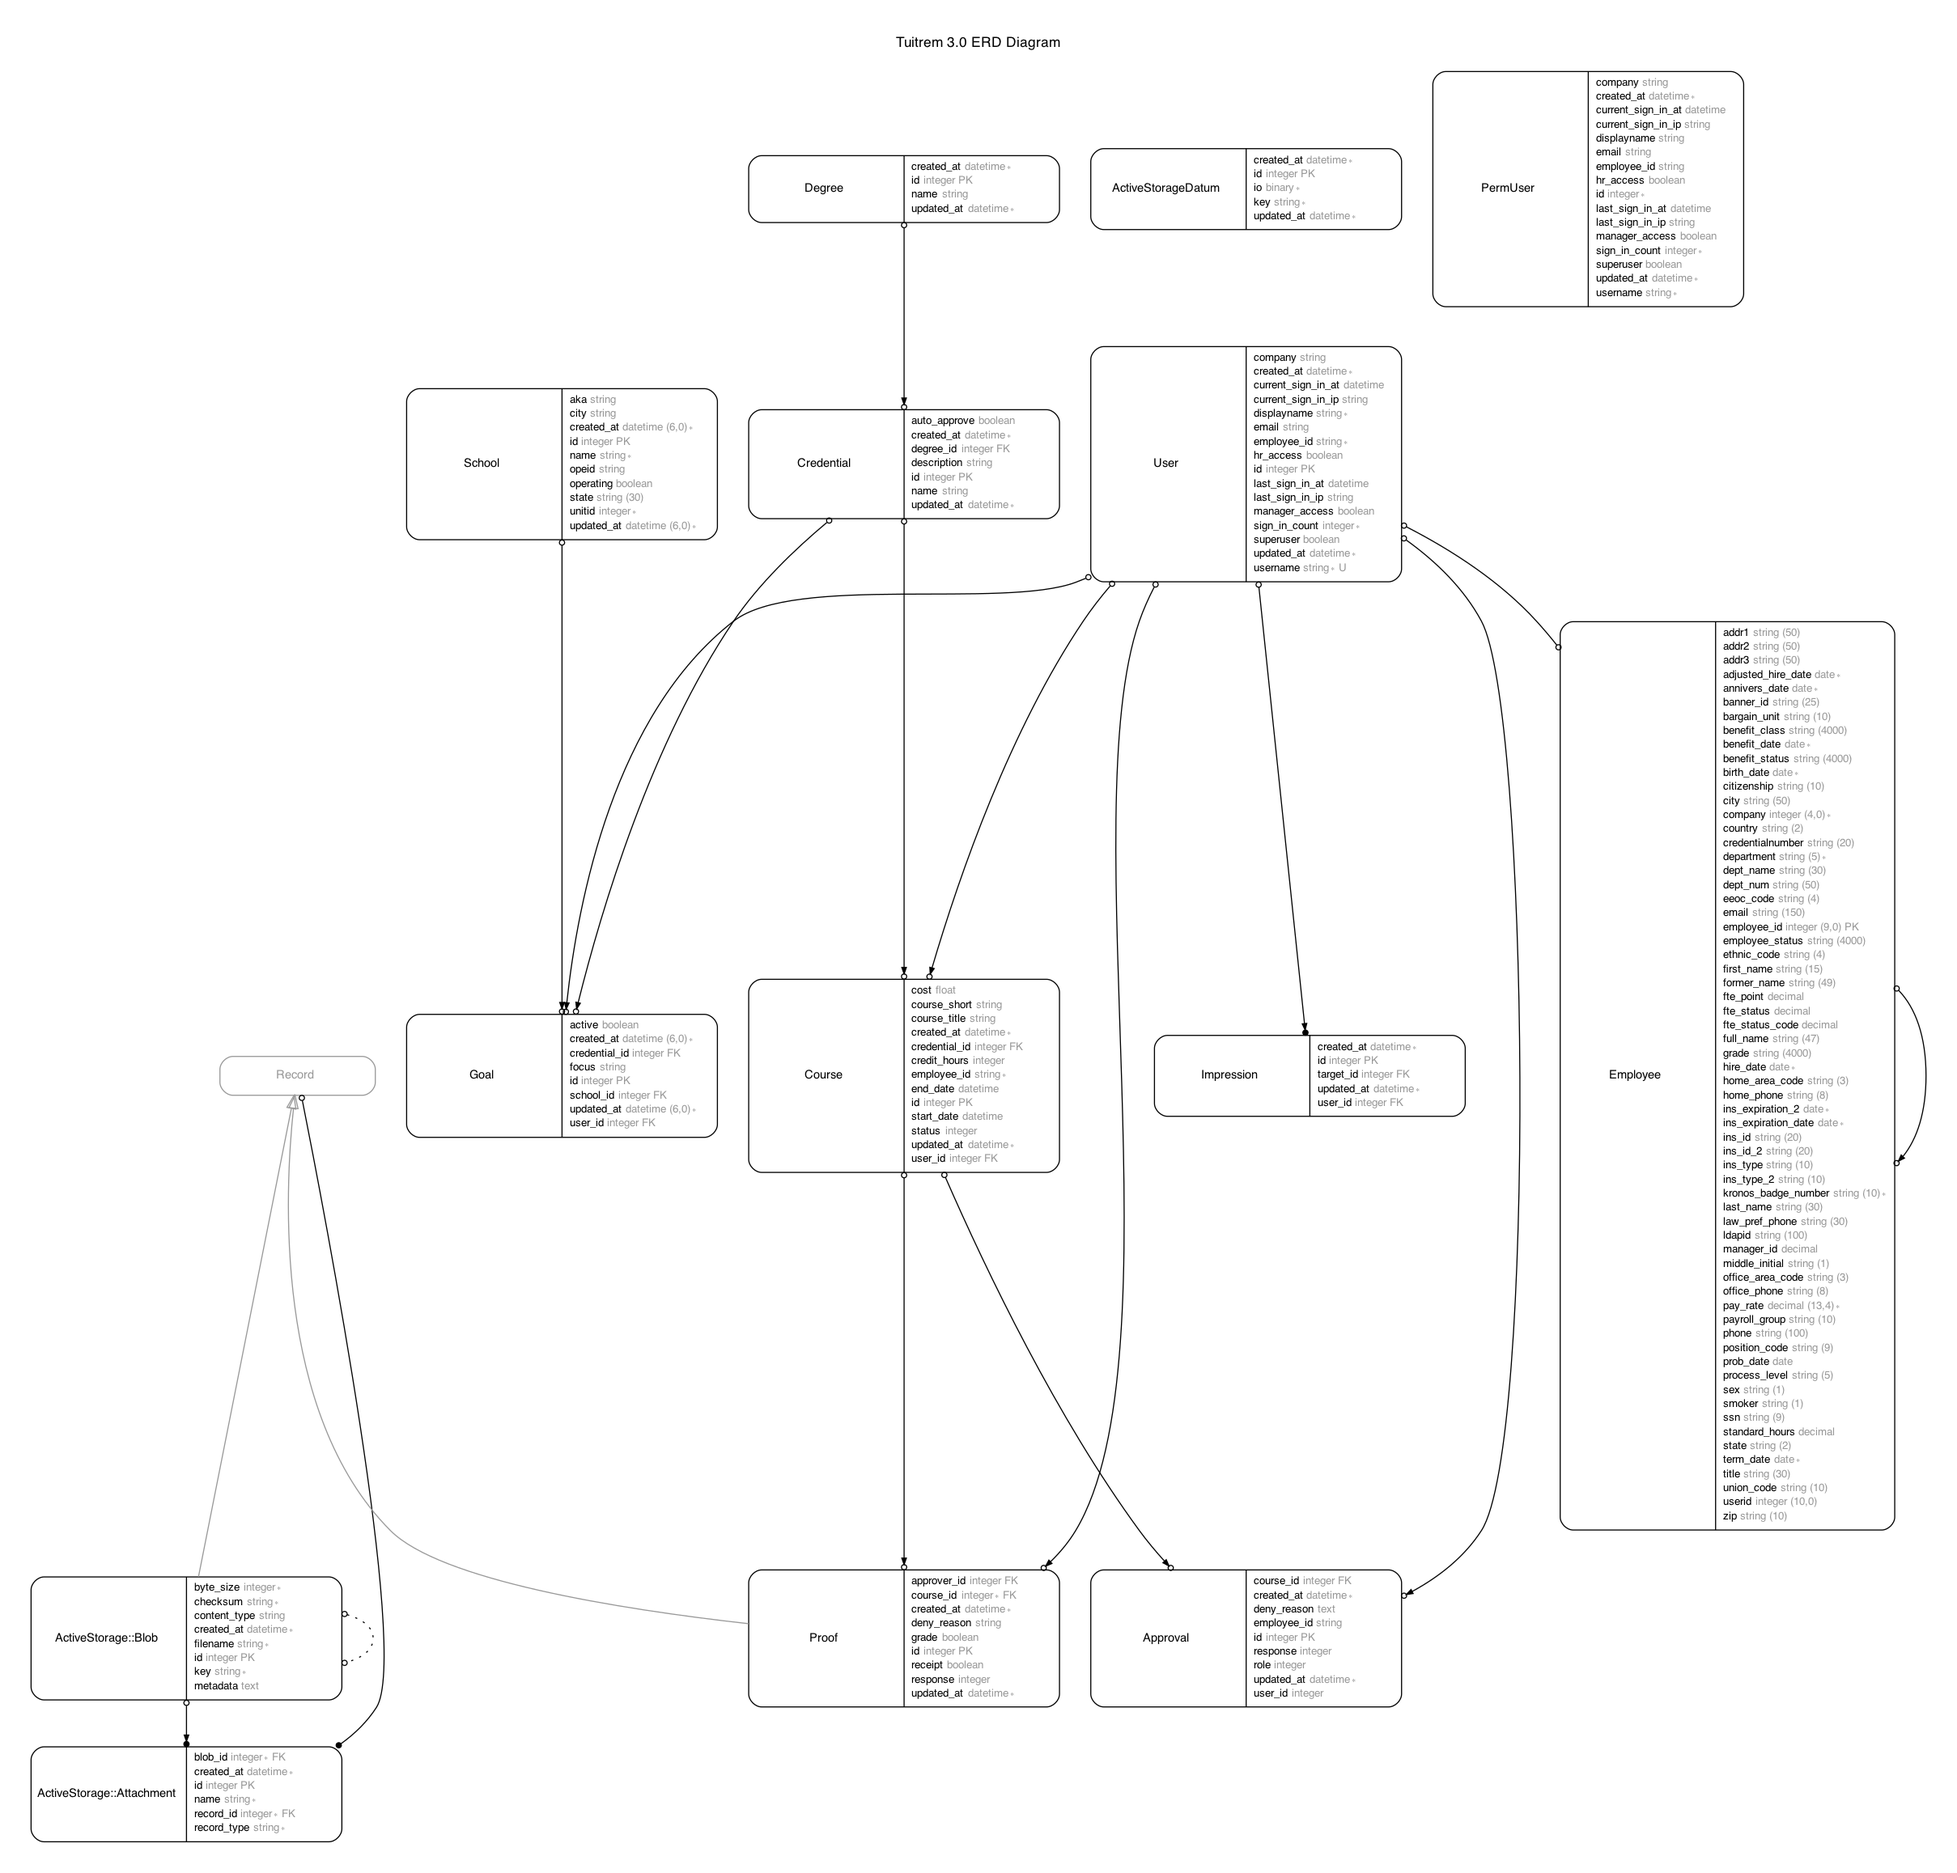
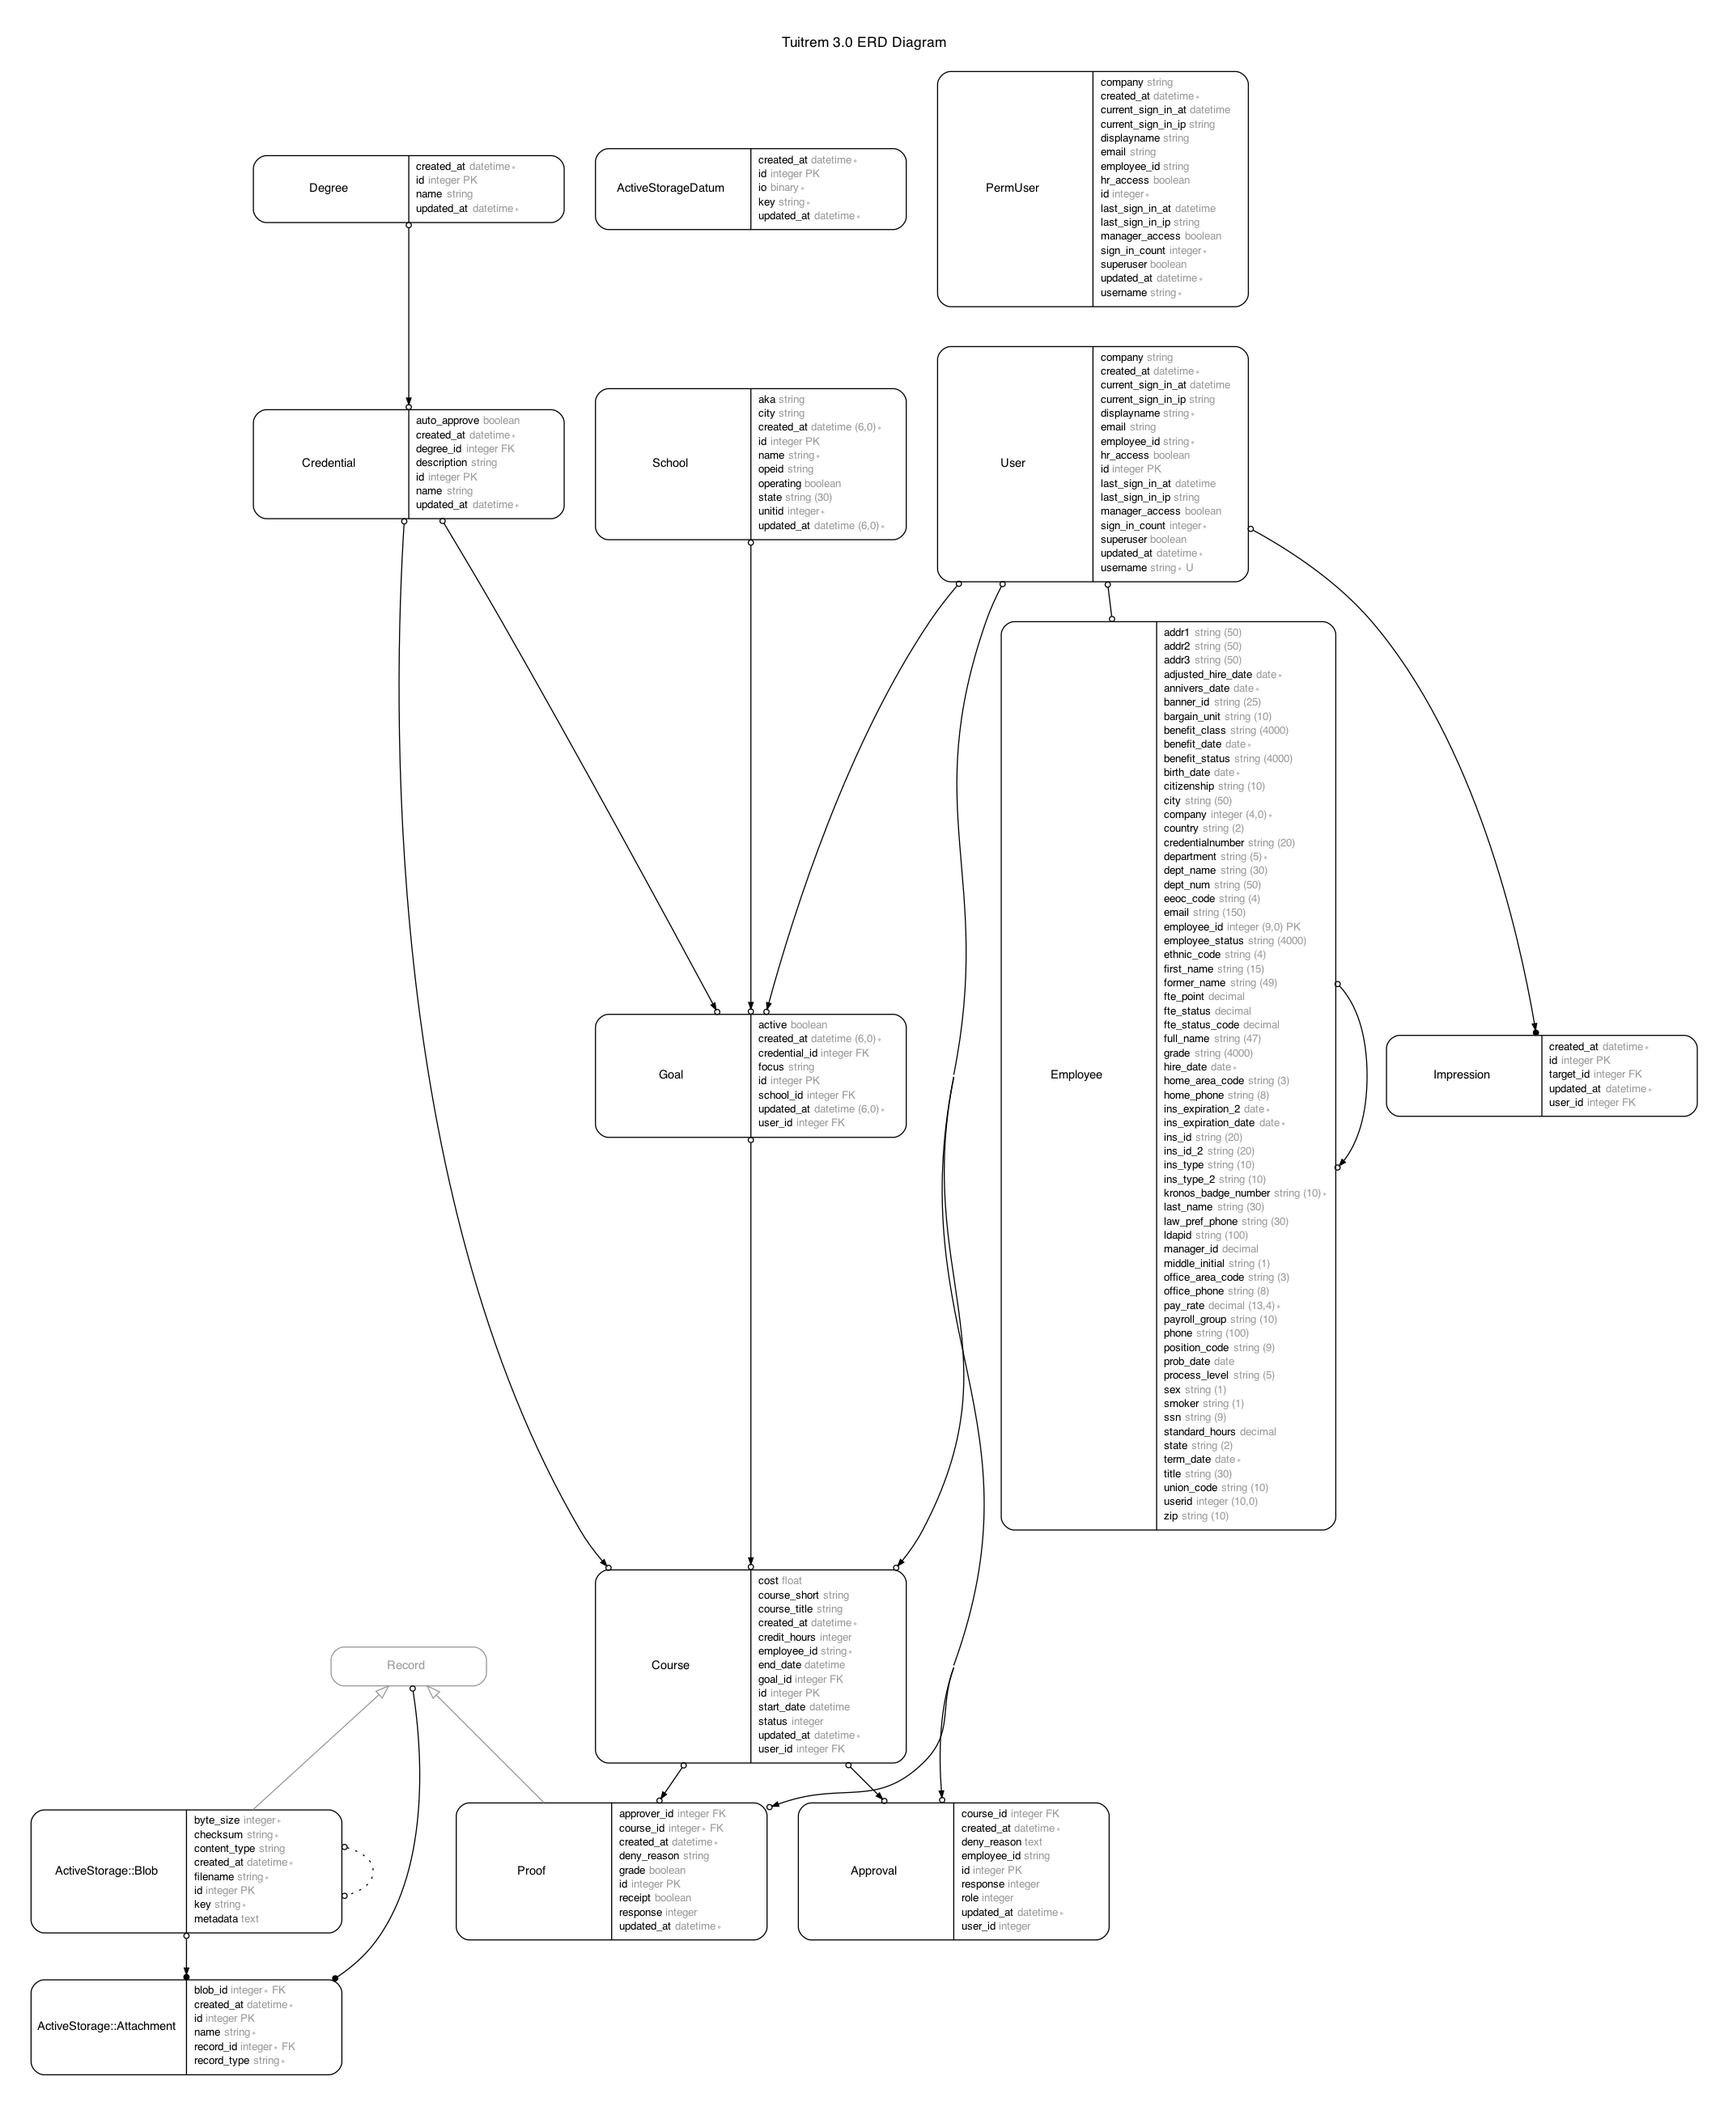
Implements #47 Educational goal, replacing credentials and schools on the course itself

diff --git a/app/controllers/courses_controller.rb b/app/controllers/courses_controller.rb
@@ -18,10 +18,12 @@ class CoursesController < ApplicationController
   # GET /courses/new
   def new
     @course = Course.new(user_id: current_user.id, employee_id: current_user.employee_id, status: 'draft')
+    @goal = Goal.where(user_id: current_user.id)
   end
 
   # GET /courses/1/edit
   def edit
+    @goal = Goal.where(user_id: current_user.id)
   end
 
   # POST /courses
@@ -69,11 +71,11 @@ class CoursesController < ApplicationController
 
   # Use callbacks to share common setup or constraints between actions.
   def set_course
-    @course = Course.includes(:user, :credential, :approvals, :proofs).references(:credential, :approvals, :user, :proofs).find(params[:id])
+    @course = Course.includes(:user, :goal, :approvals, :proofs).references(:goal, :approvals, :user, :proofs).find(params[:id])
   end
 
   # Only allow a trusted parameter "white list" through.
   def course_params
-    params.require(:course).permit(:user_id, :employee_id, :credential_id, :start_date, :end_date, :course_title, :course_short, :credit_hours, :cost, :status)
+    params.require(:course).permit(:user_id, :employee_id, :goal_id, :start_date, :end_date, :course_title, :course_short, :credit_hours, :cost, :status)
   end
 end

diff --git a/app/models/course.rb b/app/models/course.rb
@@ -4,24 +4,28 @@
 #
 # Table name: courses
 #
-#  id            :integer          not null, primary key
-#  cost          :float
-#  course_short  :string
-#  course_title  :string
-#  credit_hours  :integer
-#  end_date      :datetime
-#  start_date    :datetime
-#  status        :integer
-#  created_at    :datetime         not null
-#  updated_at    :datetime         not null
-#  credential_id :integer
-#  employee_id   :string
-#  user_id       :integer
+#  id           :integer          not null, primary key
+#  cost         :float
+#  course_short :string
+#  course_title :string
+#  credit_hours :integer
+#  end_date     :datetime
+#  start_date   :datetime
+#  status       :integer
+#  created_at   :datetime         not null
+#  updated_at   :datetime         not null
+#  employee_id  :string
+#  goal_id      :integer
+#  user_id      :integer
 #
 # Indexes
 #
-#  index_courses_on_credential_id  (credential_id)
-#  index_courses_on_user_id        (user_id)
+#  index_courses_on_goal_id  (goal_id)
+#  index_courses_on_user_id  (user_id)
+#
+# Foreign Keys
+#
+#  goal_id  (goal_id => goals.id)
 #
 class Course < ApplicationRecord
   # == Relationships ==================================

diff --git a/spec/factories/courses.rb b/spec/factories/courses.rb
@@ -2,24 +2,28 @@
 #
 # Table name: courses
 #
-#  id            :integer          not null, primary key
-#  cost          :float
-#  course_short  :string
-#  course_title  :string
-#  credit_hours  :integer
-#  end_date      :datetime
-#  start_date    :datetime
-#  status        :integer
-#  created_at    :datetime         not null
-#  updated_at    :datetime         not null
-#  credential_id :integer
-#  employee_id   :string
-#  user_id       :integer
+#  id           :integer          not null, primary key
+#  cost         :float
+#  course_short :string
+#  course_title :string
+#  credit_hours :integer
+#  end_date     :datetime
+#  start_date   :datetime
+#  status       :integer
+#  created_at   :datetime         not null
+#  updated_at   :datetime         not null
+#  employee_id  :string
+#  goal_id      :integer
+#  user_id      :integer
 #
 # Indexes
 #
-#  index_courses_on_credential_id  (credential_id)
-#  index_courses_on_user_id        (user_id)
+#  index_courses_on_goal_id  (goal_id)
+#  index_courses_on_user_id  (user_id)
+#
+# Foreign Keys
+#
+#  goal_id  (goal_id => goals.id)
 #
 FactoryBot.define do
   factory :course do

diff --git a/spec/models/course_spec.rb b/spec/models/course_spec.rb
@@ -2,24 +2,28 @@
 #
 # Table name: courses
 #
-#  id            :integer          not null, primary key
-#  cost          :float
-#  course_short  :string
-#  course_title  :string
-#  credit_hours  :integer
-#  end_date      :datetime
-#  start_date    :datetime
-#  status        :integer
-#  created_at    :datetime         not null
-#  updated_at    :datetime         not null
-#  credential_id :integer
-#  employee_id   :string
-#  user_id       :integer
+#  id           :integer          not null, primary key
+#  cost         :float
+#  course_short :string
+#  course_title :string
+#  credit_hours :integer
+#  end_date     :datetime
+#  start_date   :datetime
+#  status       :integer
+#  created_at   :datetime         not null
+#  updated_at   :datetime         not null
+#  employee_id  :string
+#  goal_id      :integer
+#  user_id      :integer
 #
 # Indexes
 #
-#  index_courses_on_credential_id  (credential_id)
-#  index_courses_on_user_id        (user_id)
+#  index_courses_on_goal_id  (goal_id)
+#  index_courses_on_user_id  (user_id)
+#
+# Foreign Keys
+#
+#  goal_id  (goal_id => goals.id)
 #
 require 'rails_helper'
 

diff --git a/db/schema.rb b/db/schema.rb
@@ -10,7 +10,7 @@
 #
 # It's strongly recommended that you check this file into your version control system.
 
-ActiveRecord::Schema.define(version: 2021_04_23_192334) do
+ActiveRecord::Schema.define(version: 2021_05_03_181744) do
 
   create_table "active_storage_attachments", force: :cascade do |t|
     t.string "name", null: false
@@ -65,8 +65,8 @@ ActiveRecord::Schema.define(version: 2021_04_23_192334) do
     t.datetime "updated_at", null: false
     t.integer "status"
     t.integer "user_id"
-    t.integer "credential_id"
-    t.index ["credential_id"], name: "index_courses_on_credential_id"
+    t.integer "goal_id"
+    t.index ["goal_id"], name: "index_courses_on_goal_id"
     t.index ["user_id"], name: "index_courses_on_user_id"
   end
 
@@ -152,6 +152,7 @@ ActiveRecord::Schema.define(version: 2021_04_23_192334) do
   end
 
   add_foreign_key "active_storage_attachments", "active_storage_blobs", column: "blob_id"
+  add_foreign_key "courses", "goals"
   add_foreign_key "goals", "credentials"
   add_foreign_key "goals", "schools"
   add_foreign_key "goals", "users"

diff --git a/app/models/user.rb b/app/models/user.rb
@@ -105,7 +105,7 @@ class User < ApplicationRecord
   # Create app users when they haven't logged in to Tuition Reimbursement app yet
   def self.from_employee(ldapid)
     employee = Employee.find_by(ldapid: ldapid)
-    u = User.new(username: employee.ldapid, displayname: employee.full_name, superuser: false, employee_id: employee.employee_id, company: 'UNMH')
+    u = User.new(username: employee.ldapid, displayname: employee.full_name, superuser: false, user_id: employee.employee_id, company: 'UNMH')
     u.save
     u
   end

diff --git a/app/controllers/goals_controller.rb b/app/controllers/goals_controller.rb
@@ -51,7 +51,7 @@ class GoalsController < ApplicationController
 
   # Use callbacks to share common setup or constraints between actions.
   def set_goal
-    @goal = Goal.includes(:user, :credential, :school).references(:user, :credential, :school).find(params[:id])
+    @goal = Goal.includes(:user, :credential, :school).references(:user, :credential, :degree, :school).find(params[:id])
   end
 
   # Only allow a trusted parameter "white list" through.

diff --git a/db/migrate/20210503181744_add_goal_to_course.rb b/db/migrate/20210503181744_add_goal_to_course.rb
@@ -1,0 +1,8 @@
+class AddGoalToCourse < ActiveRecord::Migration[6.0]
+  def change
+    add_reference :courses, :goal, foreign_key: true
+    remove_reference :courses, :credential_id, index: true
+    remove_index :courses, :credential_id
+    remove_column :courses, :credential_id
+  end
+end

diff --git a/app/models/goal.rb b/app/models/goal.rb
@@ -29,4 +29,8 @@ class Goal < ApplicationRecord
   belongs_to :user
   belongs_to :school
   belongs_to :credential
+
+  def goal_details
+    "#{credential.name}" ' - ' "#{credential.description}" ' from ' "#{school.name}"
+  end
 end

diff --git a/app/models/credential.rb b/app/models/credential.rb
@@ -20,4 +20,8 @@ class Credential < ApplicationRecord
   belongs_to :degree
   has_many :courses
   has_many :goals
+
+  def full_info
+    "#{name}" ' - ' "#{description}"
+  end
 end
